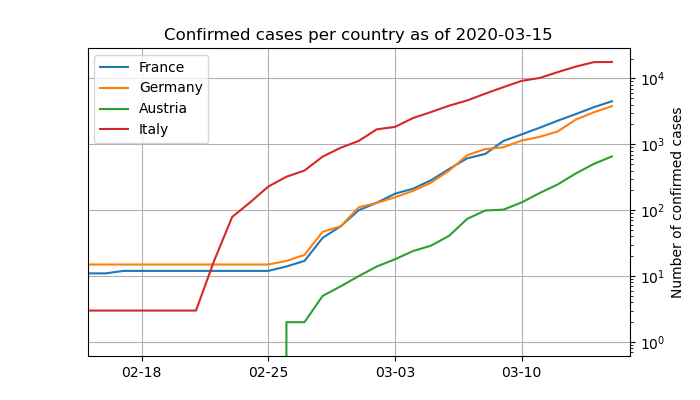
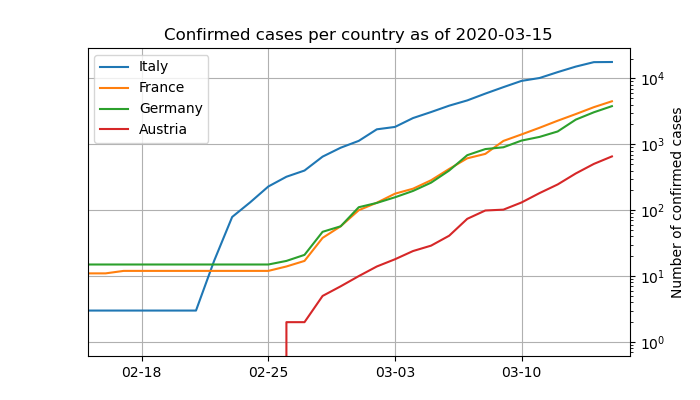
Help people with restricted color vision
Sort legend in the same order as the last value

diff --git a/covid19plot.py b/covid19plot.py
@@ -84,8 +84,9 @@ for date, count, country in reversed(list(zip(dates, counts, countries))):
         data[country]["dates"].append(date)
         data[country]["counts"].append(count)
 
-#regions = sys.argv[1:]
-#regions = sorted(regions, key=lambda r: sum(data[r]["counts"]), reverse=True)
+
+# Sort by last value descending. This helps people with restricted color vision to associate the legend to the lines
+regions = sorted(regions, key=lambda r: sum(data[r]["counts"]), reverse=True)
 
 f = plt.figure(figsize=(7,4))
 ax = f.add_subplot(111)
